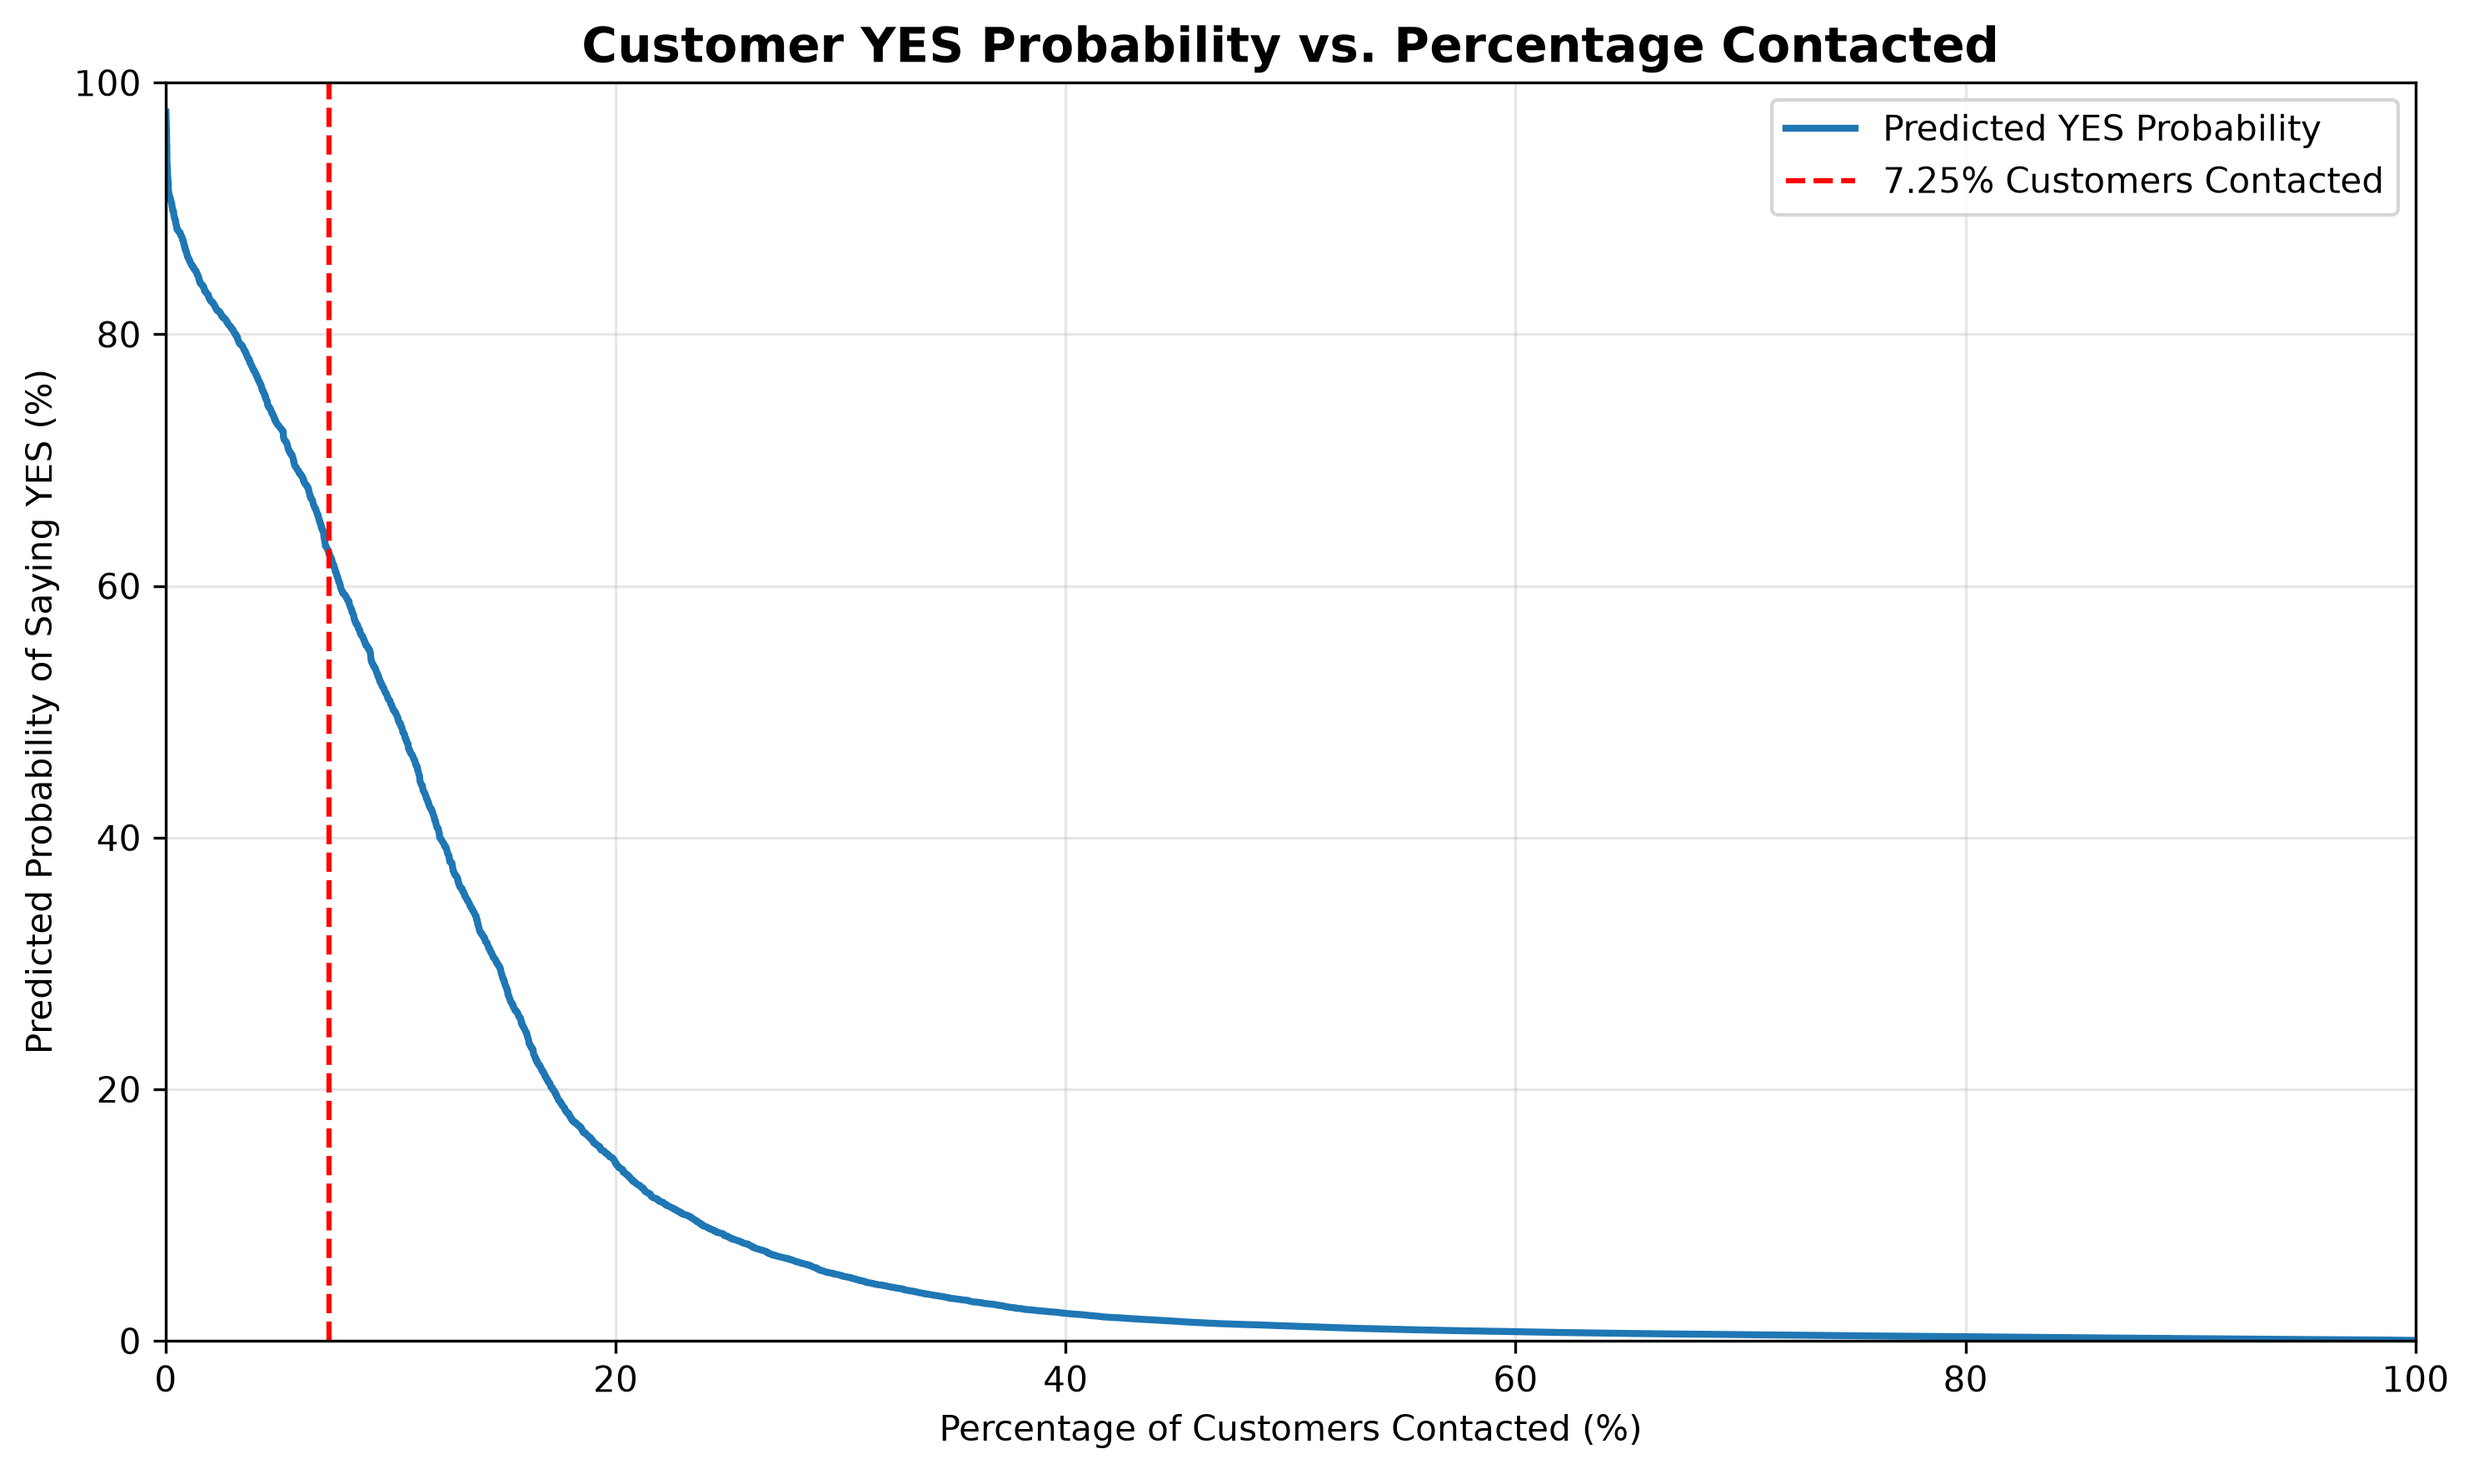
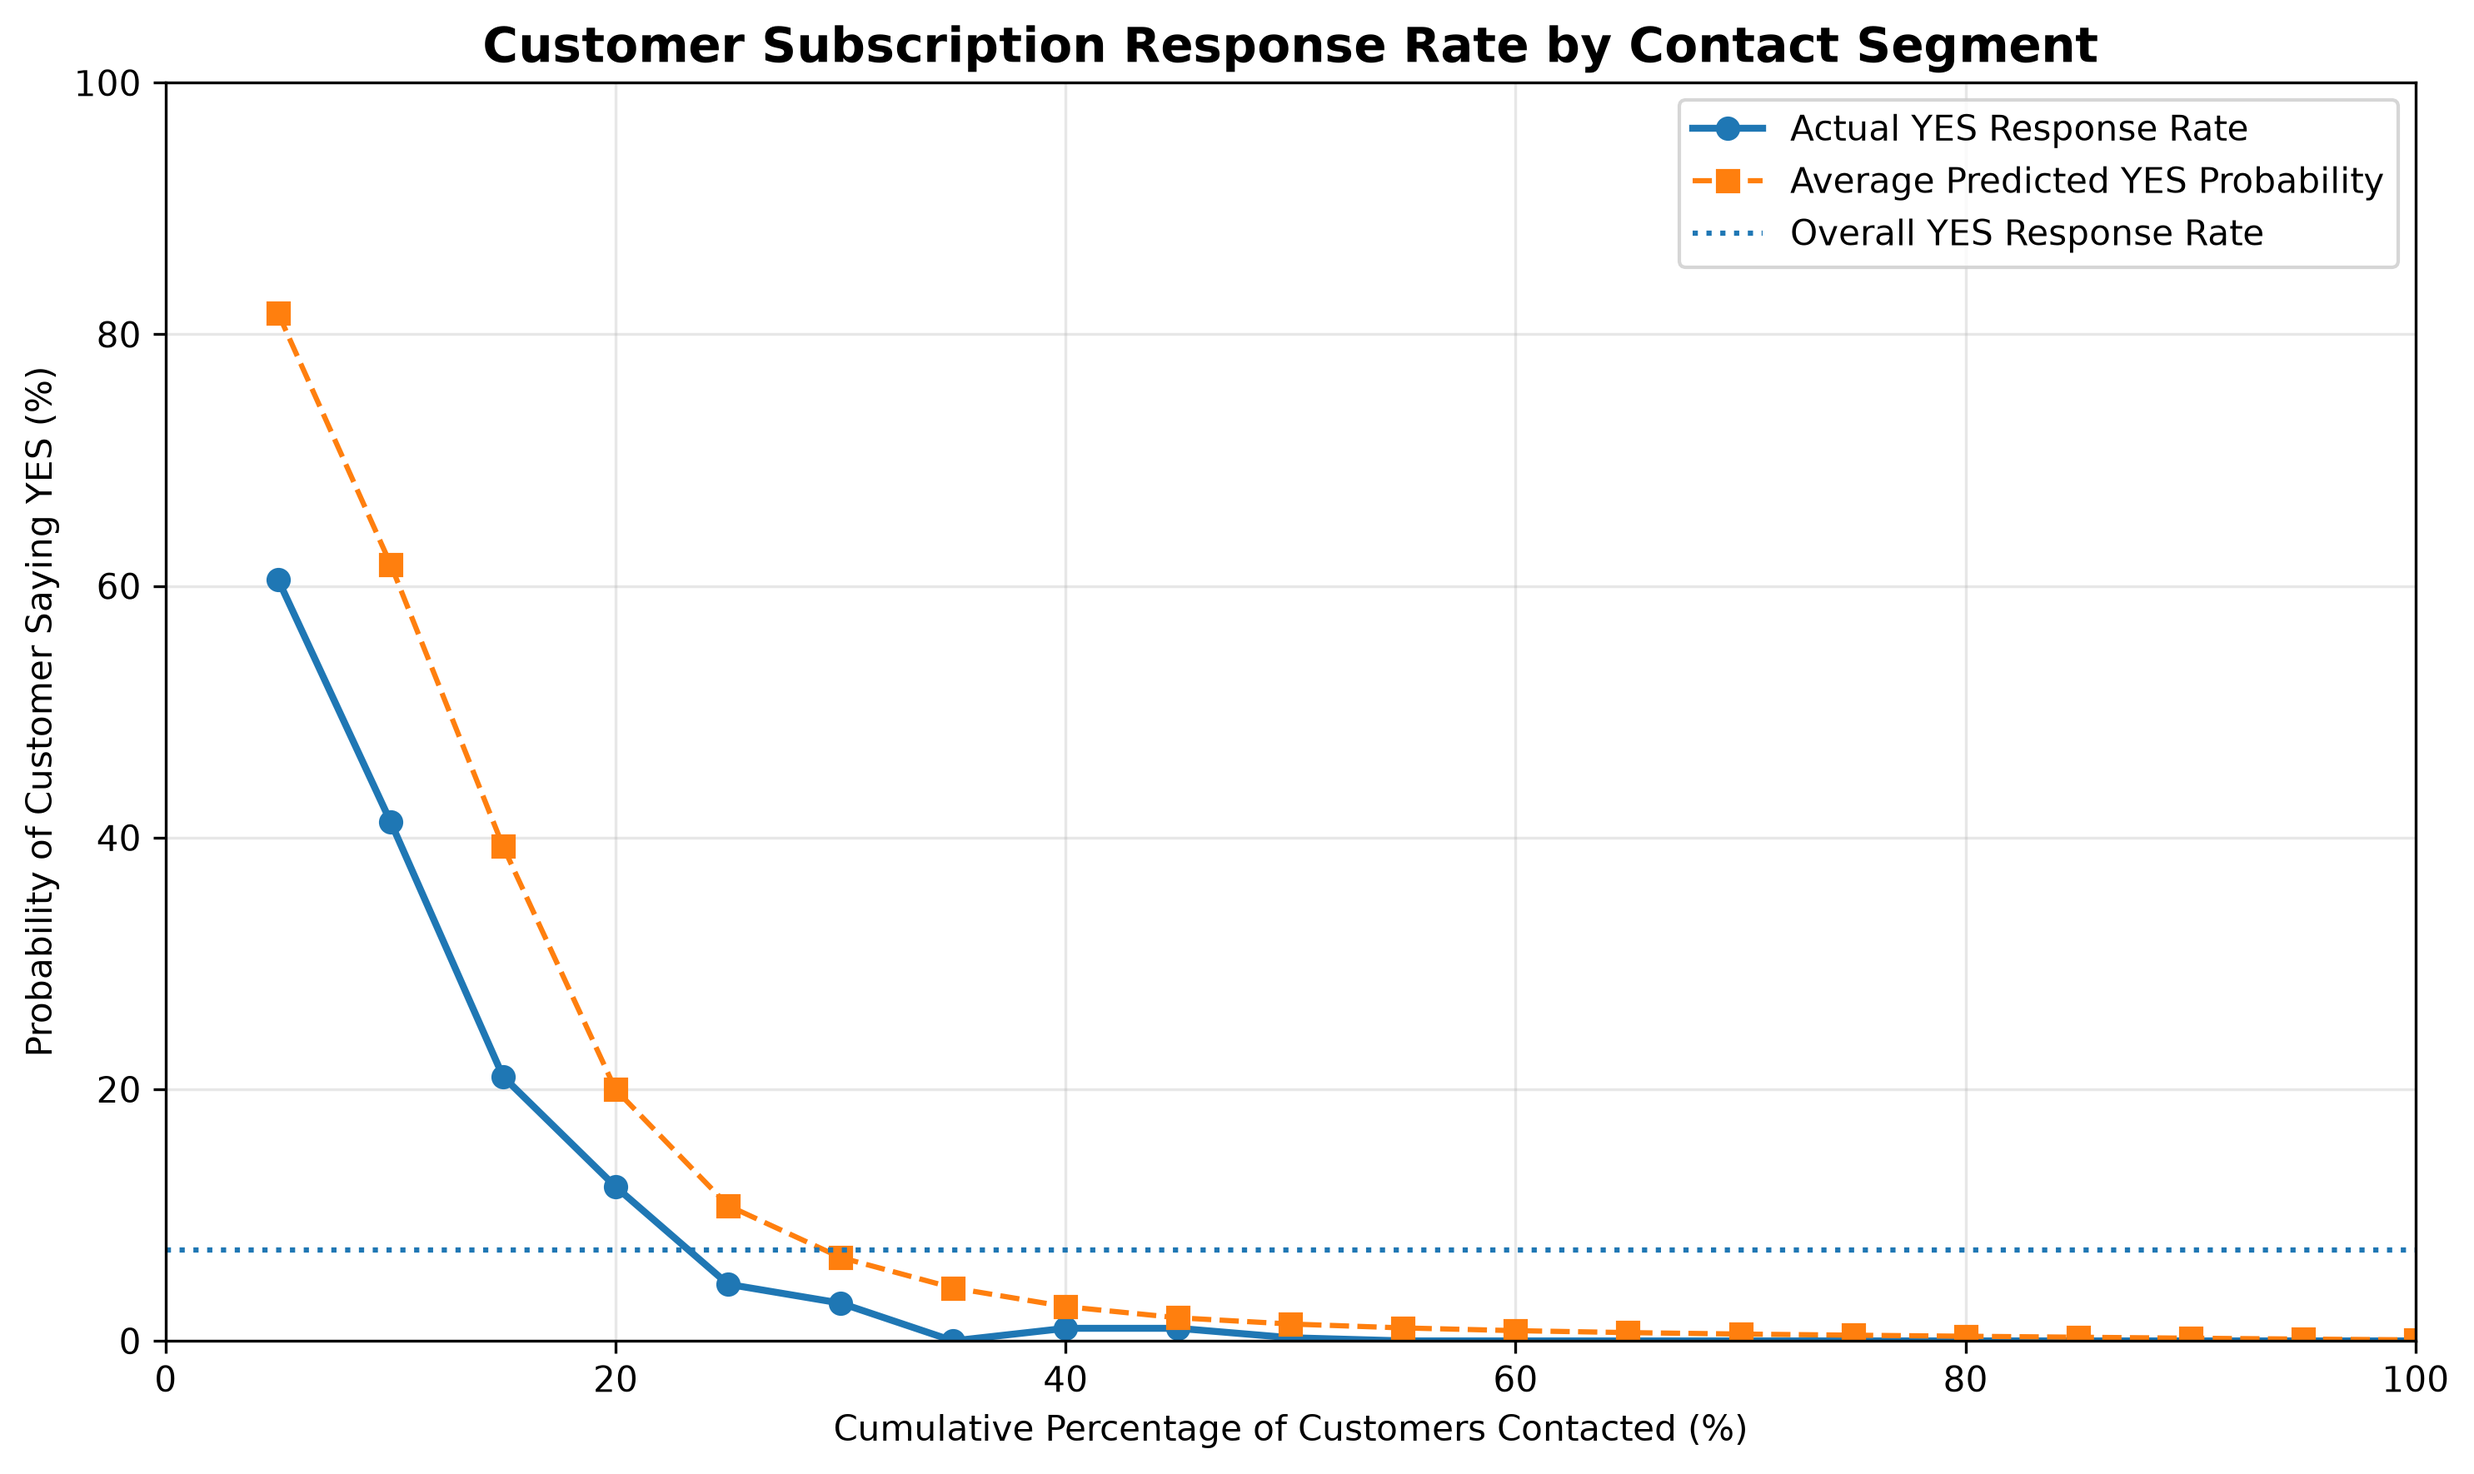
updated graph

diff --git a/TDM.py b/TDM.py
@@ -670,52 +670,99 @@ print("\nVisualizations successfully saved!")
 print(f"Saved to: {VISUAL_DIR}")
 
 # ============================================================
-# CUSTOMER YES PROBABILITY CURVE
+
 # ============================================================
-# Purpose:
-# Show how the predicted probability of a customer saying
-# YES declines as additional customers are contacted.
+# RANKED CUSTOMER SUBSCRIPTION RESPONSE ANALYSIS
 # ============================================================
 
-# Sort predicted YES probabilities from highest to lowest
-sorted_probabilities = np.sort(y_test_prob)[::-1]
+# Combine actual outcomes and predicted probabilities
+response_df = pd.DataFrame({
+    'Actual': np.asarray(y_test),
+    'Predicted Probability': np.asarray(y_test_prob)
+})
 
-# Calculate percentage of customers contacted
-percentage_contacted = (
-    np.arange(1, len(sorted_probabilities) + 1) /
-    len(sorted_probabilities)
-) * 100
+# Rank customers from highest to lowest predicted YES probability
+response_df = response_df.sort_values(
+    by='Predicted Probability',
+    ascending=False
+).reset_index(drop=True)
 
-# Convert probabilities to percentages
-yes_probability = sorted_probabilities * 100
+# Divide ranked customers into 20 equal-sized groups (5% each)
+response_df['Customer Segment'] = pd.qcut(
+    np.arange(len(response_df)),
+    q=20,
+    labels=False
+)
 
-# Create probability curve
+# Calculate actual and predicted response rates per segment
+segment_results = (
+    response_df.groupby('Customer Segment')
+    .agg(
+        Actual_Response_Rate=('Actual', 'mean'),
+        Predicted_Response_Probability=(
+            'Predicted Probability', 'mean'
+        )
+    )
+    .reset_index()
+)
+
+# Order segments from highest to lowest customer ranking
+segment_results = segment_results.sort_values(
+    'Customer Segment',
+    ascending=True
+)
+
+# Calculate cumulative percentage of customers contacted
+segment_results['Percentage Contacted'] = (
+    np.arange(1, len(segment_results) + 1) * 5
+)
+
+# Convert response rates to percentages
+segment_results['Actual_Response_Rate'] *= 100
+segment_results['Predicted_Response_Probability'] *= 100
+
+# Overall actual response rate
+overall_response_rate = response_df['Actual'].mean() * 100
+
+# ============================================================
+# PLOT CUSTOMER RESPONSE PROBABILITY
+# ============================================================
+
 fig, ax = plt.subplots(figsize=(10, 6))
 
 ax.plot(
-    percentage_contacted,
-    yes_probability,
+    segment_results['Percentage Contacted'],
+    segment_results['Actual_Response_Rate'],
+    marker='o',
     linewidth=2,
-    label='Predicted YES Probability'
+    label='Actual YES Response Rate'
 )
 
-# Mark the 7.25% contact point
-ax.axvline(
-    x=7.25,
-    color='red',
+ax.plot(
+    segment_results['Percentage Contacted'],
+    segment_results['Predicted_Response_Probability'],
     linestyle='--',
+    marker='s',
     linewidth=1.5,
-    label='7.25% Customers Contacted'
+    label='Average Predicted YES Probability'
+)
+
+# Overall response rate baseline
+ax.axhline(
+    y=overall_response_rate,
+    linestyle=':',
+    linewidth=1.5,
+    label='Overall YES Response Rate'
 )
 
 ax.set_title(
-    'Customer YES Probability vs. Percentage Contacted',
+    'Customer Subscription Response Rate by Contact Segment',
     fontsize=14,
     fontweight='bold'
 )
 
-ax.set_xlabel('Percentage of Customers Contacted (%)')
-ax.set_ylabel('Predicted Probability of Saying YES (%)')
+ax.set_xlabel('Cumulative Percentage of Customers Contacted (%)')
+ax.set_ylabel('Probability of Customer Saying YES (%)')
 
 ax.set_xlim(0, 100)
 ax.set_ylim(0, 100)
@@ -725,7 +772,6 @@ ax.legend()
 
 plt.tight_layout()
 
-# Save visualization
 plt.savefig(
     VISUAL_DIR / "customer_yes_probability_curve.png",
     dpi=300,
